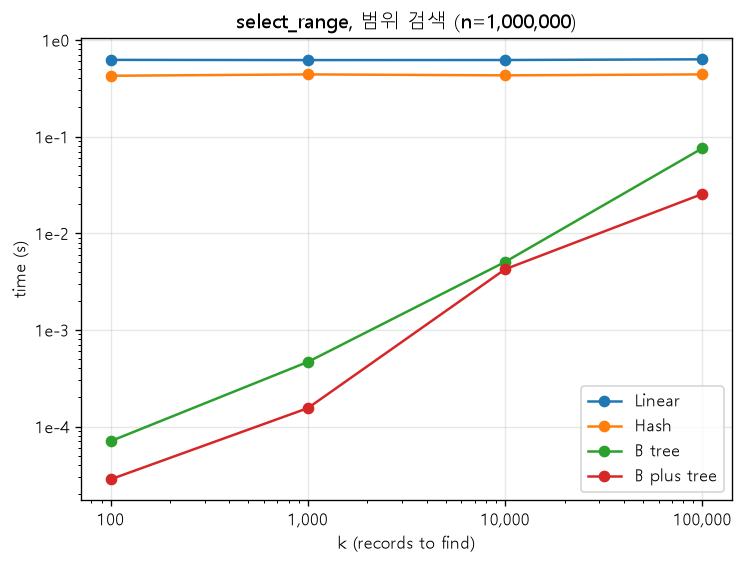
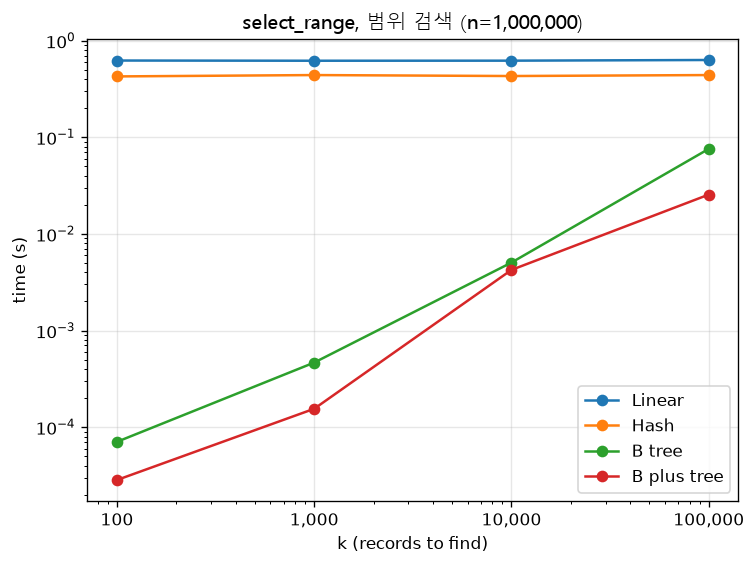
png 파일 제목 수정

diff --git a/plot_count.py b/plot_count.py
@@ -1,9 +1,8 @@
-import math
 import matplotlib.pyplot as plt
-from matplotlib.ticker import FuncFormatter
 
-plt.rcParams["font.family"] = "Malgun Gothic"   # 한글 글꼴 (Windows)
-plt.rcParams["axes.unicode_minus"] = False      # 마이너스 기호 깨짐 방지
+# 한글은 제목에만 있으므로 제목에만 한글 글꼴(Malgun Gothic)을 쓴다.
+# 전체를 한글 글꼴로 바꾸면 로그 눈금(10^-4)의 − 기호가 깨진다.
+KOREAN_FONT = "Malgun Gothic"
 
 # measure_count.py 결과 (n = 100만 고정, 찾는 개수 k만 증가)
 K = [100, 1000, 10000, 100000]
@@ -39,13 +38,10 @@ def draw(data, title, filename):
     # 값이 1e-5 ~ 1e+2로 퍼져 있어서 로그 축을 쓴다. 기울기 = 복잡도
     plt.xscale("log")
     plt.yscale("log")
-    # 로그 눈금 숫자를 일반 글자로 쓴다 (기본 10^-4 수식 표기는 한글 글꼴에서 − 기호가 깨진다)
     plt.xticks(K, [f"{x:,}" for x in K])
-    plt.gca().yaxis.set_major_formatter(
-        FuncFormatter(lambda v, _: f"1e{round(math.log10(v))}"))
     plt.xlabel("k (records to find)")
     plt.ylabel("time (s)")
-    plt.title(title)
+    plt.title(title, fontfamily=KOREAN_FONT)
     plt.grid(True, which="major", alpha=0.3)
     plt.legend()
     plt.savefig(filename, dpi=120, bbox_inches="tight")

diff --git a/README.md b/README.md
@@ -1,2 +1,4 @@
 # index-from-scratch
 
+<!-- <img src="core.png" > -->
+<img src="count_eq.png" width="49%"> <img src="count_range.png" width="49%">
